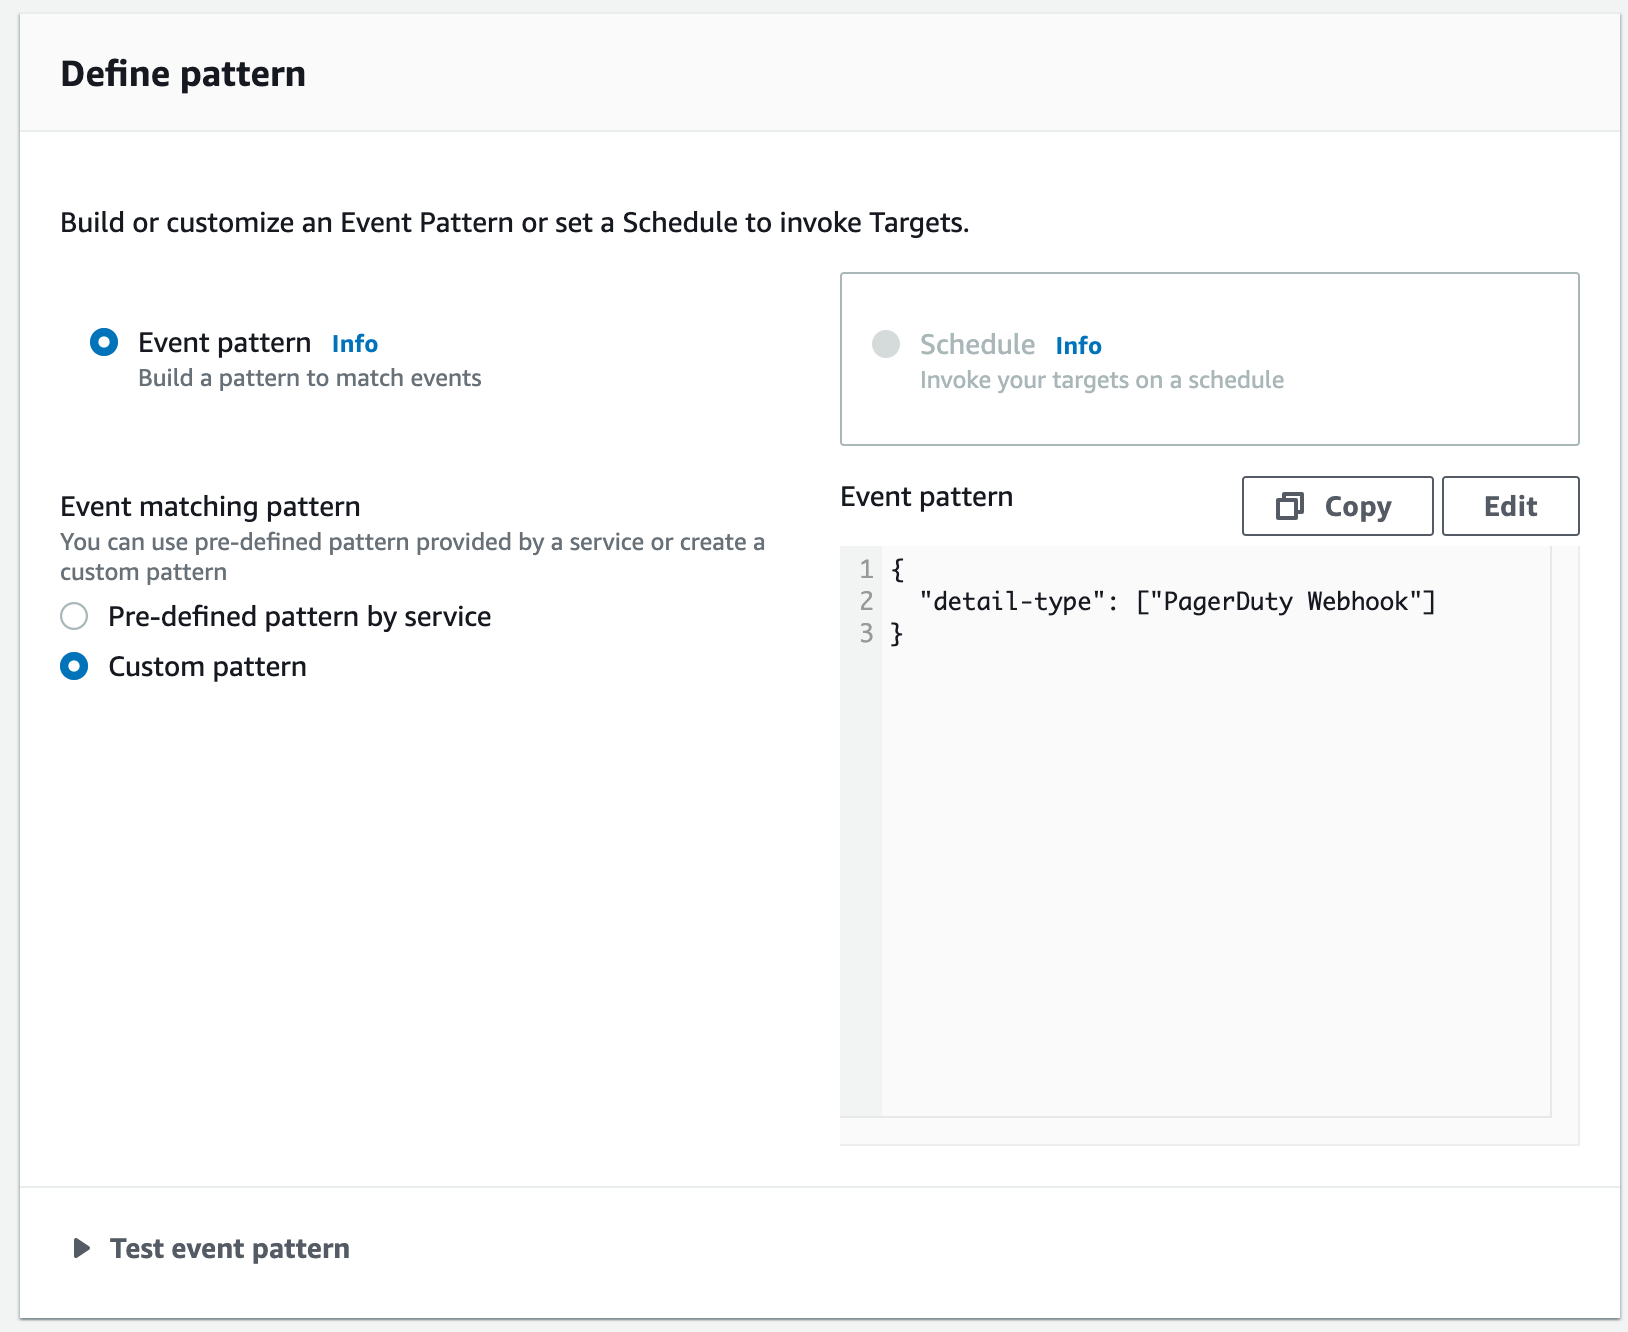
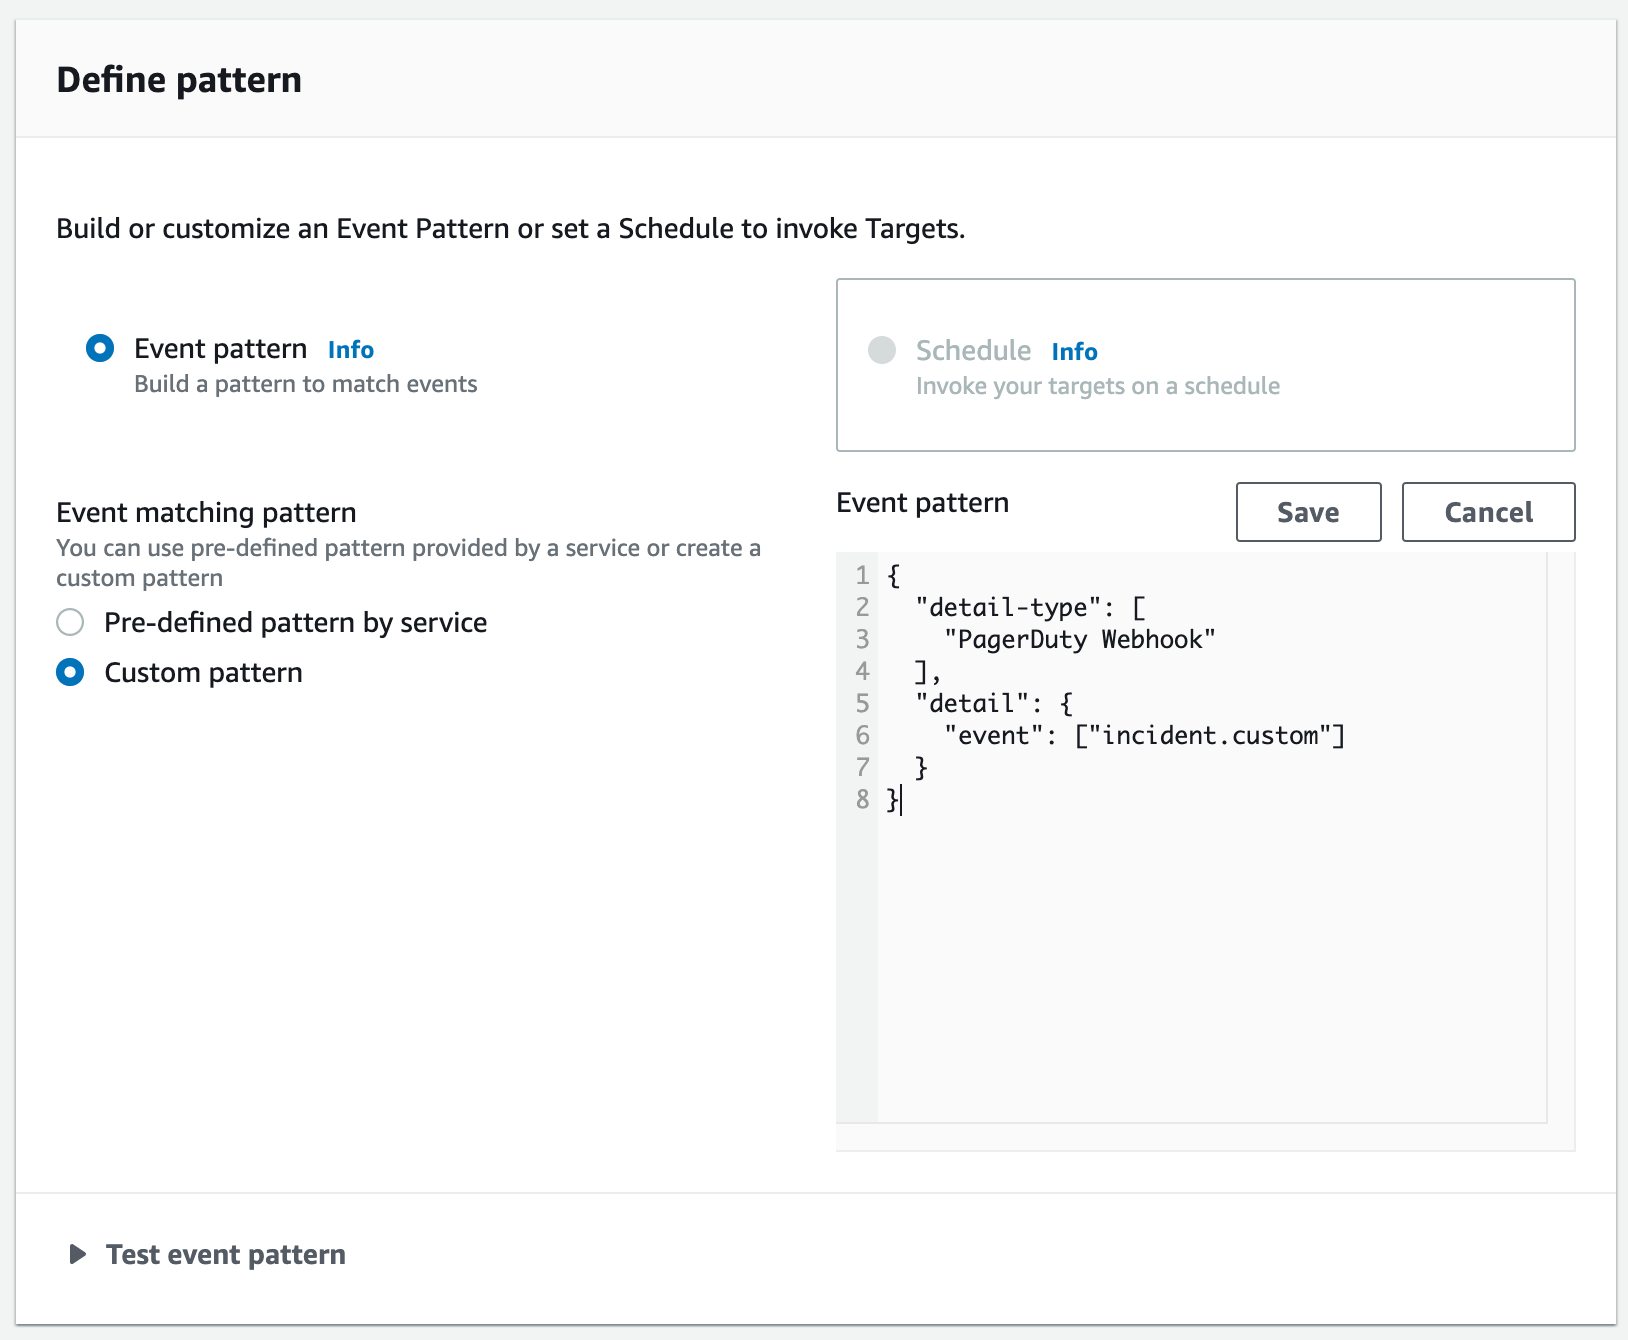
Revised the eventbridge and quickstart instructions for clarity

diff --git a/content/04_eventbridgequickstart/page-5-test.md b/content/04_eventbridgequickstart/page-5-test.md
@@ -7,6 +7,18 @@ weight: 5
 ## Trigger a P1 Incident
 
 1. Manually Create an Incident in PagerDuty with Priority of P1 on the Service it was set up on
+    - Click the Incidents menu in the top bar.
+![](/images/p1_inc0.png)
+    - Click the "+ New Incident" button on the right-hand side.
+![](/images/p1_inc1.png)
+    - In the dialog, select the Service you are using, enter a Title for the Incident and Choose P1 for the Priority
+{{% notice warning %}}  
+Be sure to choose P1 for the Priority or the EventBridge integration will not fire.
+{{% /notice %}}
+![](/images/p1_inc2.png)
+    - Click the "Create Incident" button on the bottom of the dialog.
+![](/images/p1_inc3.png)
+
 1. Check the Incident Timeline and check to see that the right Response play has run
     - You should get a Status Message written on the Status tab
 1. Resolve the Incident and check to see that the right Response play has run
@@ -15,6 +27,7 @@ weight: 5
 ## Trigger a P2 Incident
 
 1. Manually Create an Incident in PagerDuty with Priority of P2 on the Service it was set up on
+    - Follow the instructions above but select a P2 Priority instead.
 1. Check the Incident Timeline and check to see that the right Response play has run
     - You should get a Status Message written on the Status tab
 

diff --git a/content/03_eventbridge/page-4-rule.md b/content/03_eventbridge/page-4-rule.md
@@ -33,13 +33,30 @@ Next we define the pattern of event that will trigger this rule.
 
 In our case, we have only one type of event that comes from our PagerDuty account that we want to associate with our rule.
 
-So we select “Pre-defined pattern by service”
-Then “Service Partners”.
-And Finally “PagerDuty”.
+So we select “Custom pattern”
+
+Paste in this JSON to the Event pattern:
+
+	{
+		"detail-type": [
+			"PagerDuty Webhook"
+		],
+		"detail": {
+			"event": ["incident.custom"]
+		}
+	}
+
+
+Click Save.
+
+![](/images/ebrules_4.png)
+
+### Verify the event bus 
+The Select event bus section should already be correctly filled in.
 
 Next, scroll down to “Select Targets”.
 
-![](/images/ebrules_4.png)
+
 
 ### Define what to trigger
 

diff --git a/content/04_eventbridgequickstart/page-6-summary.md b/content/04_eventbridgequickstart/page-6-summary.md
@@ -19,6 +19,10 @@ In this section, we learned:
     - A Lambda object with Python code
     - An IAM Role to allow the Lambda object to run
 
+- When PagerDuty sends a trigger event to EventBridge, the Lambda code will check if it's a P1 or P2 and if so, run the appropriate Response Play. 
+
+- When PagerDuty sends a resolved event to EventBridge, the Lambda code will check if it's a P1 and if so, run the Resolved Response Play.
+
 {{% notice warning %}}
 Be sure to Delete the CloudFormation Stack we just built to destroy the objects that were created so that no further costs are incurred!
 {{% /notice %}}

diff --git a/content/03_eventbridge/page-5-test.md b/content/03_eventbridge/page-5-test.md
@@ -18,6 +18,6 @@ weight: 5
 
 1. Open the Incident, find the Event Details tab to see what CloudWatch sent
 
-1. When ready to restart the EC2 instance, choose the More Actions...Restart EC2 menu item
+1. When ready to restart the EC2 instance, choose the More Actions...RestartEC2Instance menu item
 
 1. The incident should AUTOMATICALLY be resolved in about 2 1/2 minutes.
